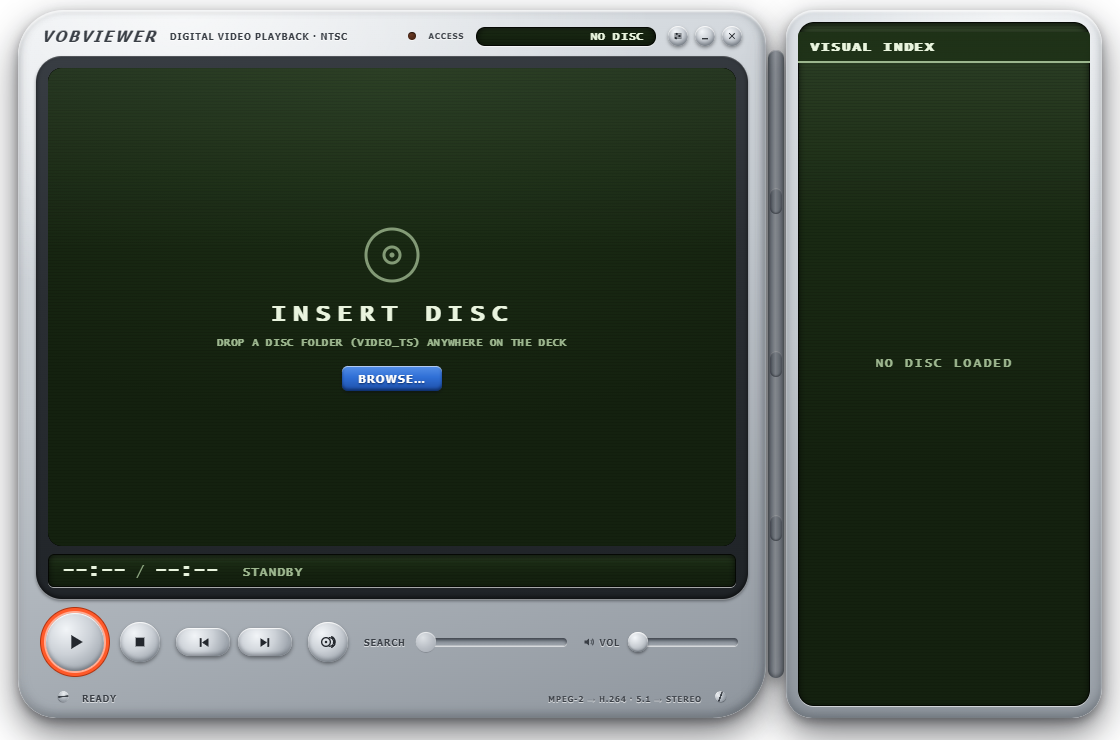
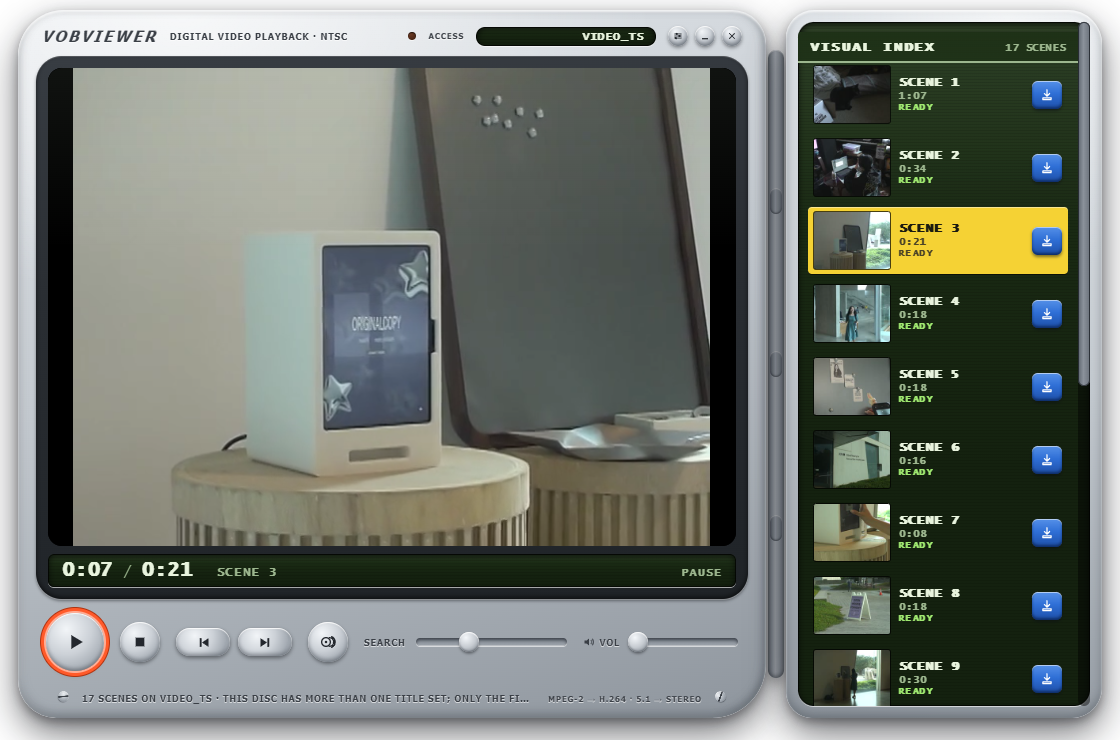
Refresh README screenshots
The player shot now shows a disc loaded and a scene playing; a second shot shows the disc wallet. The site's og:image gets the same refresh.

diff --git a/README.md b/README.md
@@ -35,6 +35,8 @@ library view will feel familiar.
 - A setup screen manages watched folders, the import folder, disc
   auto-detect, and the conversion cache.
 
+![The disc wallet](docs/wallet.png)
+
 Titles and library data live in `%LOCALAPPDATA%\VobViewer`. Your original
 disc files are never modified.
 
